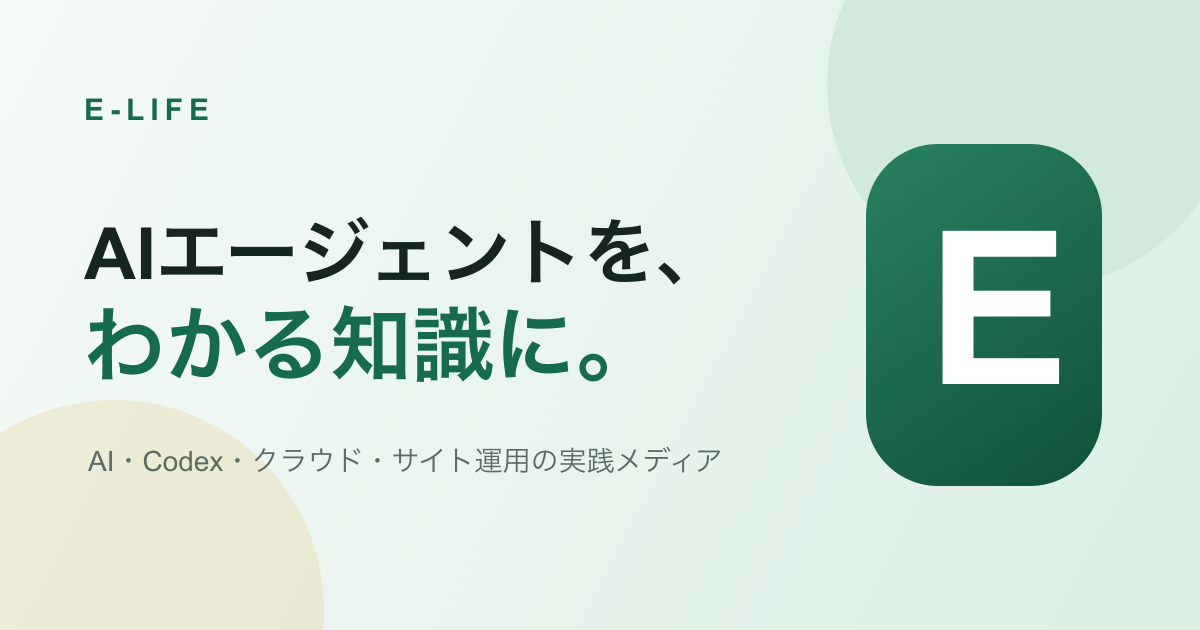
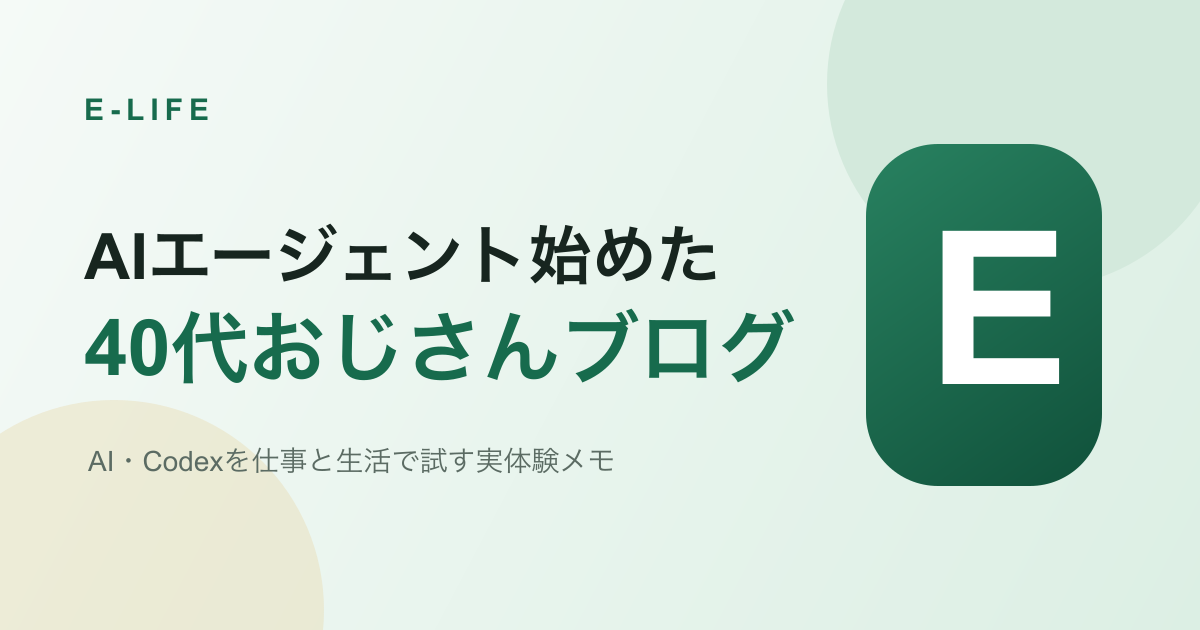
Align site copy with personal blog voice

Changed region(s): [[0.0617, 0.4825, 0.6783, 0.6032], [0.0617, 0.3317, 0.6167, 0.4524], [0.185, 0.6937, 0.5858, 0.754]]

diff --git a/src/site.ts b/src/site.ts
@@ -2,7 +2,7 @@ export const SITE = {
   name: "E-Life",
   url: "https://e-life.site/",
   description:
-    "E-Lifeは、AIエージェント、Codex、クラウド、サイト運用の知識を初心者にもわかりやすく整理する情報メディアです。",
+    "E-Lifeは、40代でAIやCodexを使い始めた私が、仕事や生活で実際に試したことを初心者目線で記録するブログです。",
   language: "ja",
   locale: "ja_JP",
   defaultImage: "/og/e-life-default.png",

diff --git a/src/pages/rss.xml.ts b/src/pages/rss.xml.ts
@@ -8,7 +8,7 @@ export async function GET(context: { site?: URL }) {
   );
 
   return rss({
-    title: `${SITE.name} - AIエージェントナレッジ`,
+    title: `${SITE.name} - AI・Codex実体験ブログ`,
     description: SITE.description,
     site: context.site ?? new URL(SITE.url),
     items: articles.map((article) => ({

diff --git a/README.md b/README.md
@@ -1,6 +1,6 @@
 # e-life-site
 
-Cloudflare Pagesで公開する「AIエージェントナレッジ」メディアです。
+Cloudflare Pagesで公開する、40代からAIやCodexを試す実体験ブログです。
 
 ## 開発
 
